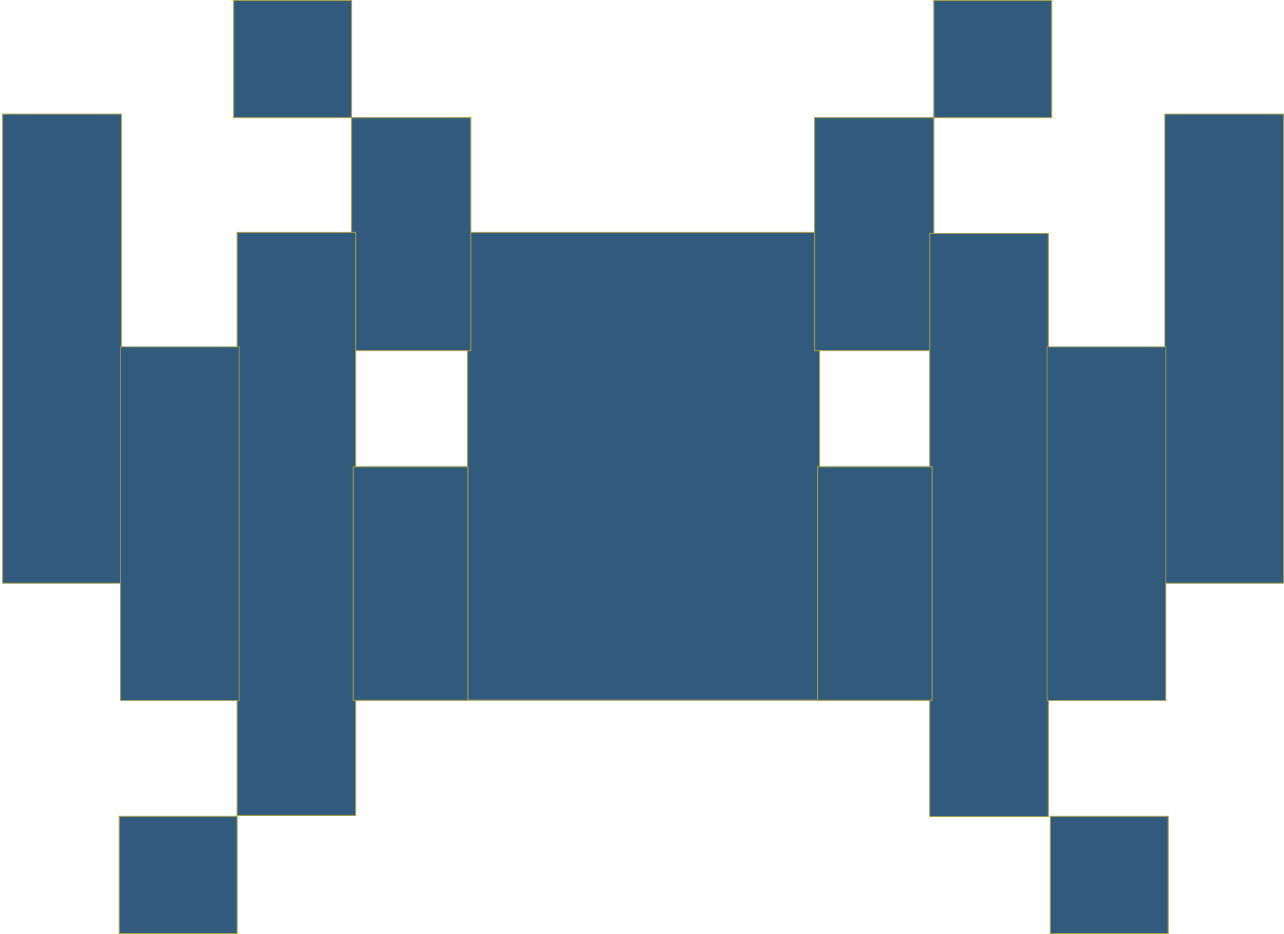
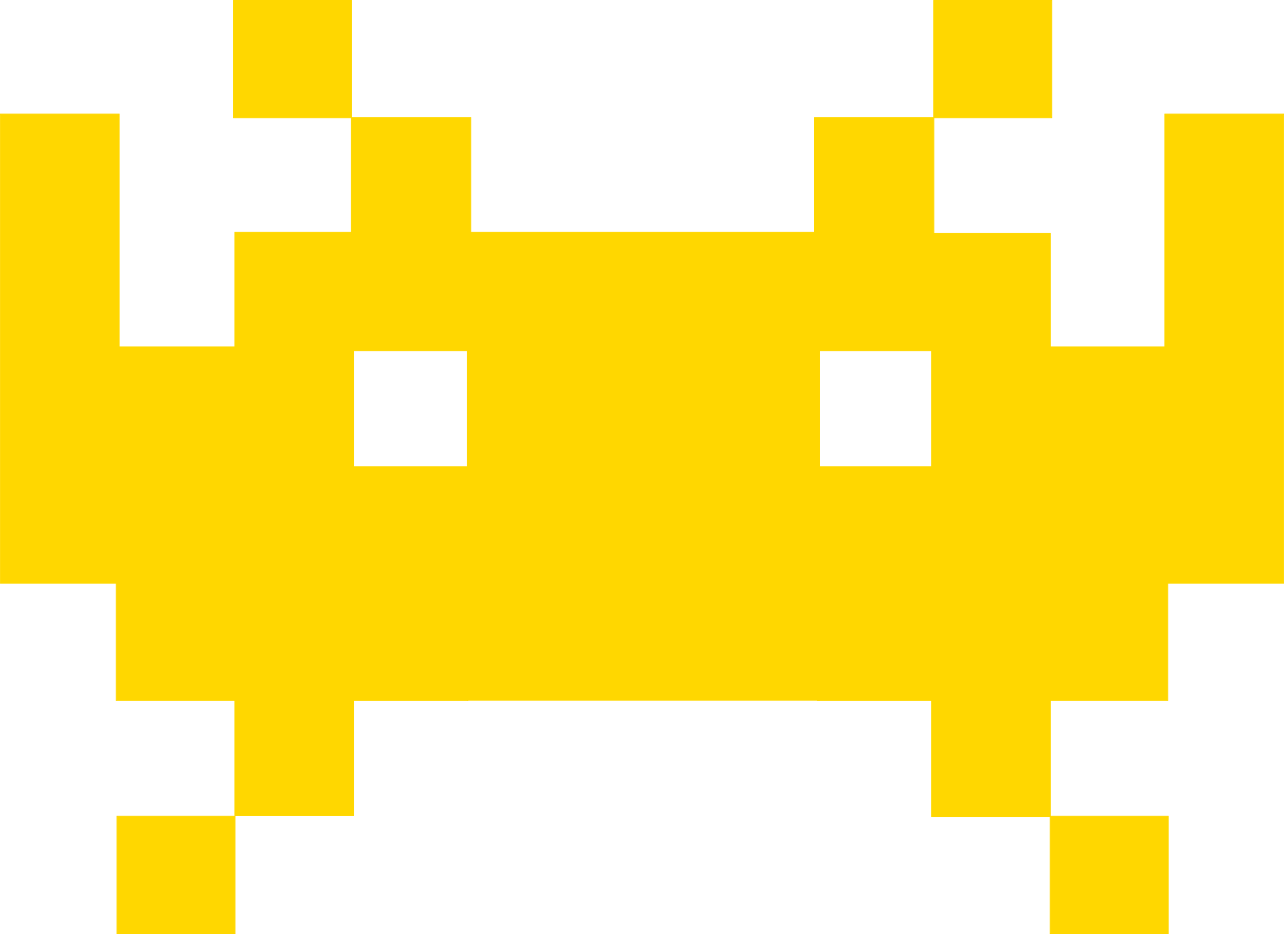
invaders animation

diff --git a/src/app/game/play/play.component.ts b/src/app/game/play/play.component.ts
@@ -7,18 +7,45 @@ import {
   ViewChild,
   ComponentFactoryResolver,
   Injector,
+  ViewChildren,
+  QueryList,
 } from '@angular/core';
+import { trigger, style, animate, transition, state } from '@angular/animations';
+import { InvaderComponent } from '../invader/invader.component';
 import { BulletComponent } from './bullet/bullet.component';
 import { PlaceholderDirective } from './placeholder.directive';
+import { interval, Subscription } from 'rxjs';
+
 
 @Component({
   selector: 'app-play',
   templateUrl: './play.component.html',
   styleUrls: ['./play.component.css'],
+    animations: [
+    trigger('invadersContainer', [
+      state('left', style({
+        transform: 'translateX(240px)'
+      })),
+      state('right', style({
+        transform: 'translateX(0px)'
+      })),
+      transition('left <=> right', animate(3000)),
+      transition('void <=> left', animate(0))
+    ]),
+  ]
 })
 export class PlayComponent implements OnInit, OnDestroy {
-  defenderPosition = 225;
+  shipPosition = 225;
+  shipIcon = '/assets/figures/defender_ship.png';
   shootLastPressed = null;
+  numberOfInvaders = 15;
+  invaders = new Array(18);
+  state = 'right';
+  invadersPositionTop = 0;
+
+  subscription: Subscription;
+
+  @ViewChildren(InvaderComponent) invaderComponents: QueryList<InvaderComponent>;
 
   private bulletRefs: ComponentRef<BulletComponent>[] = [];
 
@@ -29,6 +56,18 @@ export class PlayComponent implements OnInit, OnDestroy {
     private componentFactoryResolver: ComponentFactoryResolver,
     private injector: Injector
   ) {}
+
+  ngOnInit(): void {
+    this.subscription = interval(500).subscribe((x) => {
+      if (x % 7 === 0) {
+        this.state = x % 14 === 0 ? 'left' : 'right';
+      }
+
+      if ((x + 1) % 7 === 0) {
+        this.invadersPositionTop += 10;
+      }
+    });
+  }
 
   @HostListener('window:keydown', ['$event'])
   keyEvent(event: KeyboardEvent) {
@@ -47,22 +86,16 @@ export class PlayComponent implements OnInit, OnDestroy {
     }
   }
 
-  ngOnInit(): void {
-    const bulletFactory = this.componentFactoryResolver.resolveComponentFactory(
-      BulletComponent
-    );
-  }
-
   onArrowLeft() {
-    if (this.defenderPosition > 10) {
-      this.defenderPosition -= 10;
+    if (this.shipPosition > 10) {
+      this.shipPosition -= 10;
     }
     return;
   }
 
   onArrowRight() {
-    if (this.defenderPosition < 440) {
-      this.defenderPosition += 10;
+    if (this.shipPosition < 440) {
+      this.shipPosition += 10;
     }
     return;
   }
@@ -85,7 +118,7 @@ export class PlayComponent implements OnInit, OnDestroy {
     const bulletRef = bulletCmpFactory.create(this.injector);
 
     // defender position + middle of the defender - middle of the bullet
-    bulletRef.instance.positionX = this.defenderPosition + 23;
+    bulletRef.instance.positionX = this.shipPosition + 23;
     this.bulletRefs.push(bulletRef);
     hostViewContainerRef.insert(bulletRef.hostView);
 

diff --git a/src/app/game/invader/invader.component.ts b/src/app/game/invader/invader.component.ts
@@ -1,44 +1,39 @@
-import { Component, OnInit, OnDestroy } from '@angular/core';
-import {
-  trigger,
-  style,
-  animate,
-  transition,
-  state,
-} from '@angular/animations';
+import { Component, OnInit, OnDestroy, Input } from '@angular/core';
 import { interval, Subscription } from 'rxjs';
 
 @Component({
   selector: 'app-invader',
   templateUrl: './invader.component.html',
   styleUrls: ['./invader.component.css'],
-  animations: [
-    trigger('invader', [
-      state('invisible', style({ opacity: '0', visibility: 'hidden' })),
-      state('visible', style({ opacity: '1', visibility: 'visible' })),
-      transition('invisible <=> visible', animate('1s')),
-    ]),
-  ],
+
 })
 export class InvaderComponent implements OnInit, OnDestroy {
+  @Input() invaderIndex: number;
   subscription: Subscription;
-  state = 'visible';
+  state = 'left';
   index = 0;
-  iconPath = '/assets/figures/invader1_state2.png';
-  invadersArray = [
+  positionLeft = 0;
+  iconArray: Array<string>;
+  invadersArray1 = [
     '/assets/figures/invader1_state1.png',
     '/assets/figures/invader1_state2.png',
+  ];
+
+  invadersArray2 = [
+    '/assets/figures/invader2_state1.png',
+    '/assets/figures/invader2_state2.png',
   ];
 
   constructor() {}
 
   ngOnInit(): void {
-    this.subscription = interval(2000).subscribe((x) => {
-      // console.log(x);
-      // this.state = this.state === 'visible' ? 'invisible' : 'visible';
-      // if (x % 2 === 0) {
-      //   this.index = (x / 2) % 3;
-      // }
+    this.positionLeft = this.invaderIndex * 45;
+    this.iconArray = (this.invaderIndex % 12 < 6) ? (this.invaderIndex % 2 ? this.invadersArray1 : this.invadersArray2)
+      : (this.invaderIndex % 2 ? this.invadersArray2 : this.invadersArray1);
+    this.subscription = interval(150).subscribe((x) => {
+      if (x % 2 === 0) {
+        this.index = (x / 2) % 2;
+      }
     });
   }
 

diff --git a/src/styles.css b/src/styles.css
@@ -17,7 +17,6 @@ body {
   font: normal 1rem/1.5 "Arial", sanf-serif;
   color: #fff;
   overflow-x: hidden;
-  /* padding-bottom: 50px; */
 }
 
 .container {
@@ -98,6 +97,16 @@ header i {
   color: #333;
 }
 
+.invaders-container {
+  position: absolute;
+  display: grid;
+  grid-template-columns: repeat(6, minmax(0, 1fr));
+  place-items: center;
+  width: 250px;
+  margin: 5px;
+  transition: 0.5s ease-in;
+}
+
 .defender-ship {
   position: absolute;
   color: #fff;
@@ -105,7 +114,6 @@ header i {
   width: 50px;
   /* game-area - ship height */
   top: calc(88vh - 50px);
-  /* left: 225px; */
   transition: 0.1s ease-in-out;
 }
 
@@ -118,7 +126,6 @@ header i {
 }
 
 .invaderImage {
-  color: var(--secondary-color);
   width: 30px;
   height: 25px;
 }

diff --git a/src/app/game/play/play.component.html b/src/app/game/play/play.component.html
@@ -1,12 +1,14 @@
 <div class="play-area">
   <ng-template appPlaceholder></ng-template>
 
-  <app-invader></app-invader>
+  <div [@invadersContainer]="state" class="invaders-container" [style.top.px]="invadersPositionTop">
+      <app-invader [invaderIndex]="i" *ngFor="let invader of invaders; let i = index"></app-invader>
+  </div>
 
   <img
     #defender
-    [style.left.px]="defenderPosition"
+    [style.left.px]="shipPosition"
     class="defender-ship"
-    src="/assets/figures/defender_ship.png"
+    [src]="shipIcon"
   />
 </div>

diff --git a/src/app/game/invader/invader.component.html b/src/app/game/invader/invader.component.html
@@ -1,3 +1,1 @@
-<div [@invader]="state">
-  <img class="invaderImage" [src]="iconPath" />
-</div>
+  <img class="invaderImage" [src]="iconArray[index]"/>
